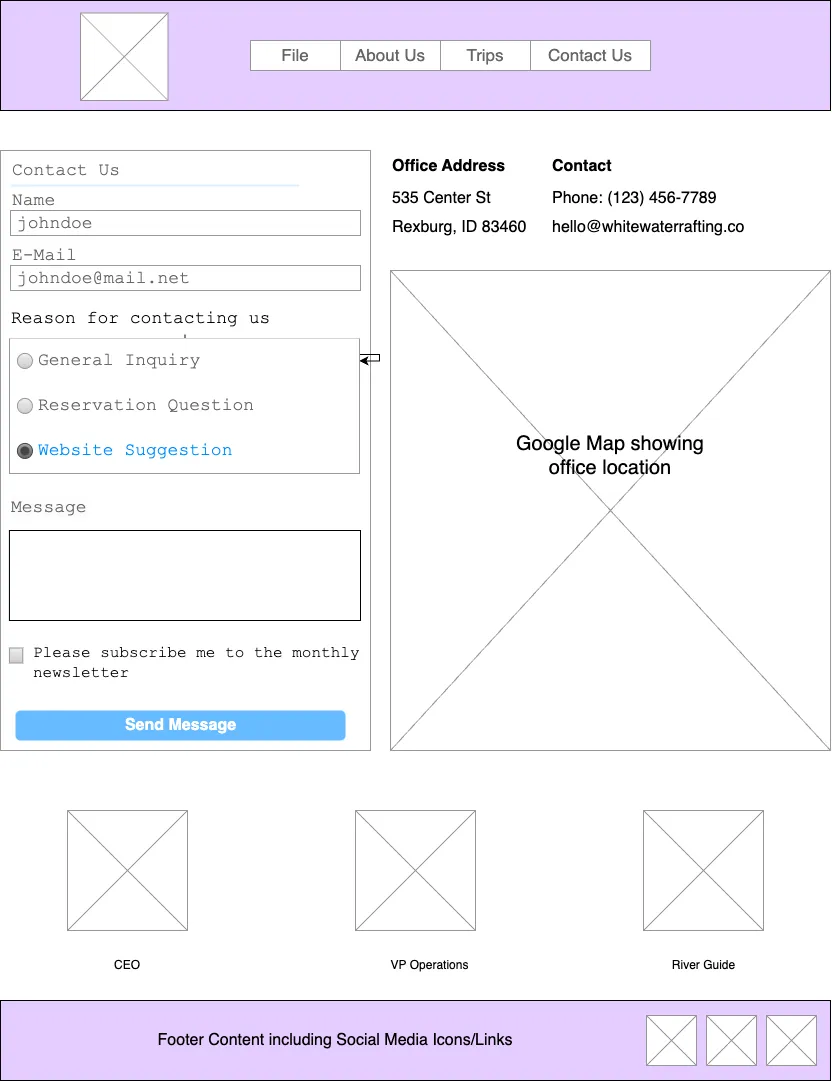
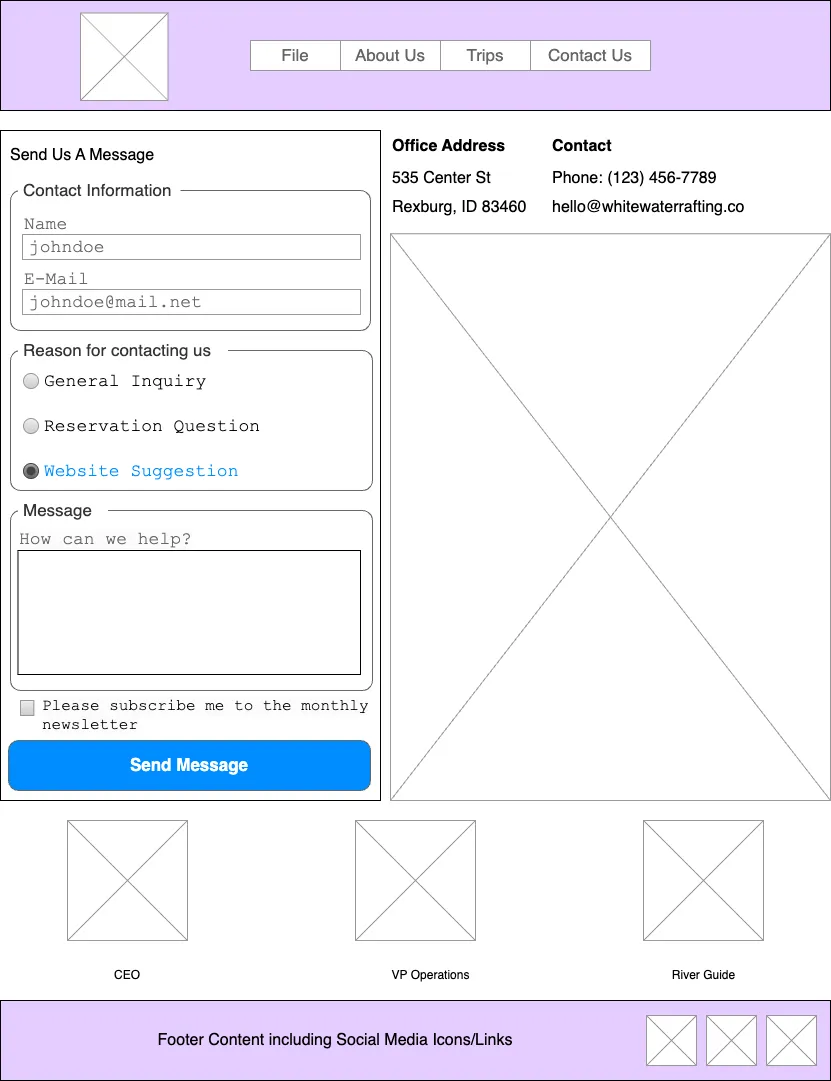
built basic contact us form

diff --git a/wwr/contact.html b/wwr/contact.html
@@ -23,7 +23,40 @@
         </header>
         <main>
             <form>
-
+                <h1>Send us a message</h1>
+                <fieldset>
+                    <legend>Contact Information</legend>
+                    <div class="form-item">
+                        <label for="username">Name</label>
+                        <input type="text" id="username" name="username">
+                    </div>
+                    <div class="form-item">
+                        <label for="useremail">Email</label>
+                        <input type="email" id="useremail" name="useremail">
+                    </div>
+                </fieldset>
+                <fieldset>
+                    <legend>Reason for contacting us</legend>
+                    <div class="form-item">
+                        <!-- <label for="reasonforcontact">Reason for contacting us</label> -->
+                        <input type="radio" id="general_inquiry" name="reason_for_contact" value="General Inquiry">
+                        <label for="general_inquiry">General Inquiry</label><br>
+                        <input type="radio" id="reservation_question" name="reason_for_contact" value="Reservation Question">
+                        <label for="reservation_question">Reservation Question</label><br>
+                        <input type="radio" id="websitesuggestion" name="reason_for_contact" value="Website Suggestion">
+                        <label for="websitesuggestion">Website Suggestion</label>
+                    </div>
+                </fieldset>
+                <fieldset>
+                    <legend>Message</legend>
+                    <label for="message" class="text_area_label">How can we help?</label>
+                    <textarea id="message" name="message" rows="4" cols="50"></textarea>
+                </fieldset>
+                <div class="form-item" id="subscription_checkbox_div">
+                    <label for="subscribe_me">Please subscribe me to the monthly newsletter</label>
+                    <input type="checkbox" id="subscribe_me" name="subscribe_me">
+                </div>
+                <button type="submit">Send Message</button>
             </form>
             <section id="company_contact_section">
 
